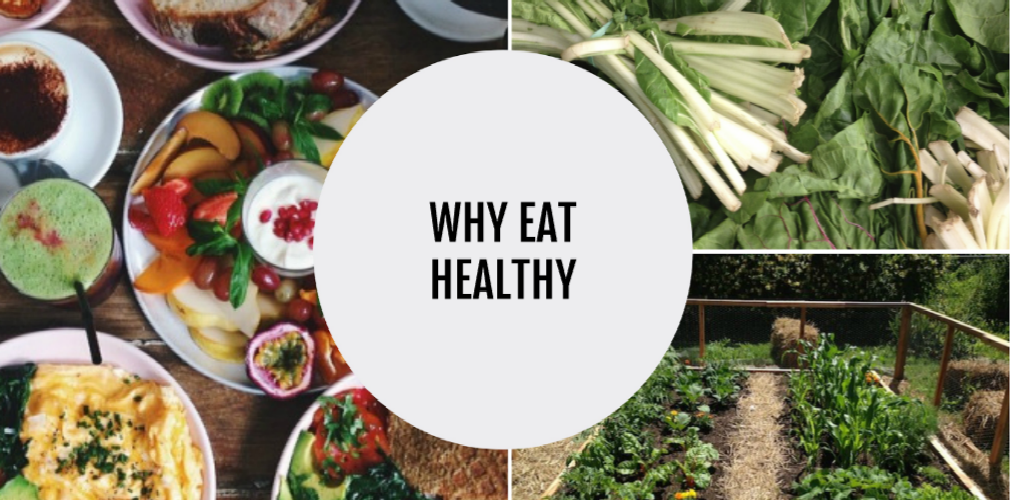
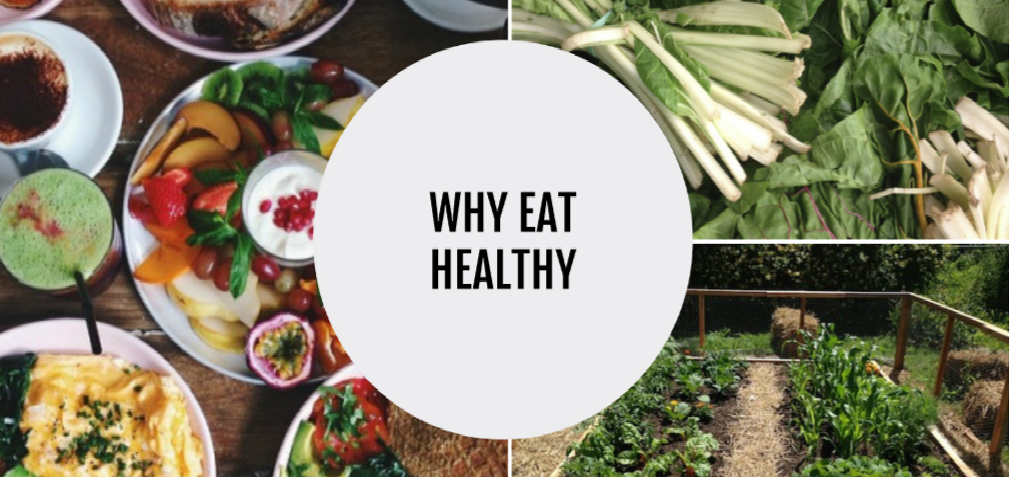
more pic edits

diff --git a/fshealthyreworked.html b/fshealthyreworked.html
@@ -32,6 +32,9 @@ body {font-family: "Lato", sans-serif}
 	position: relative;
 	left: 48.5%;
 }
+.picsize{
+	background-size: cover;
+}
 </style>
 <body>
   
@@ -54,10 +57,9 @@ body {font-family: "Lato", sans-serif}
 </div>
 
 <!-- Page content -->
-<div class="w3-content" style="max-width:2000px;margin-top: 69px;height: 100%;width: 100%;">
+<div class="w3-content picsize" style="max-width:2000px;margin-top: 46px;min-height: 590px;height: 100%;width: 100%;background-image: url(why-eat-new.png)">
 
-  <!-- Automatic Slideshow Images -->
- 	<img src="why-eat-new.jpg" style="width: inherit;height: inherit;">
+
   </div>
  <div class="w3-container centertitle" style="background-color: white">
   <img src="downbtn.svg" class="centericon" style="height: 30px;width: 30px;margin-left: 12px;cursor:pointer" onclick="window.scrollTo(0, 660)"></img>
